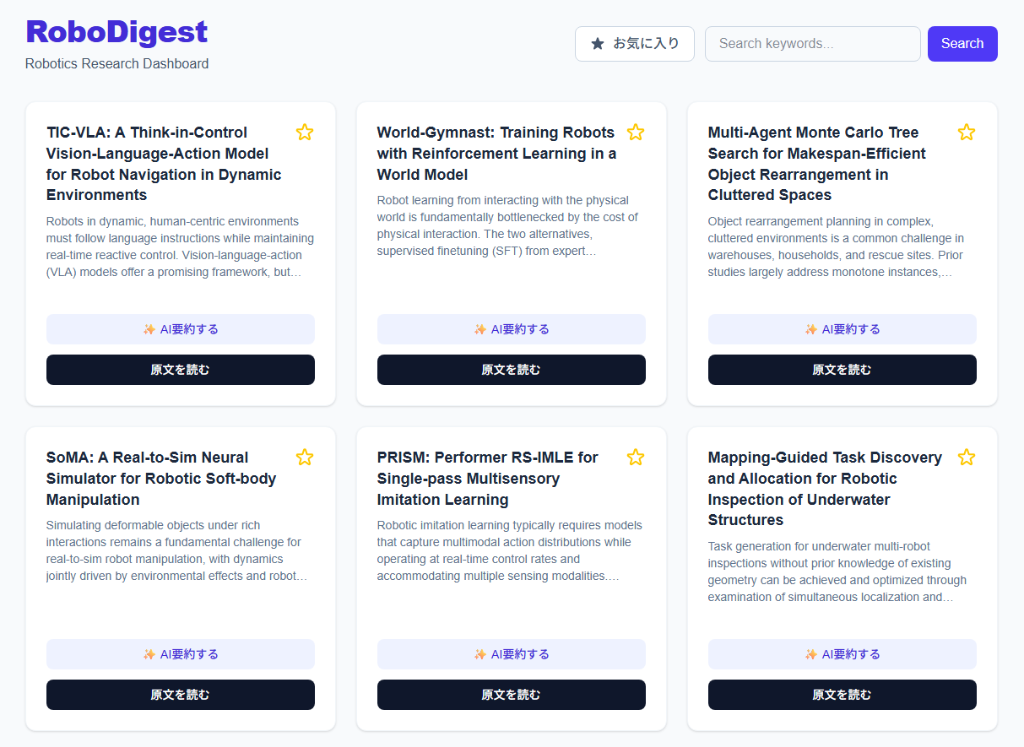
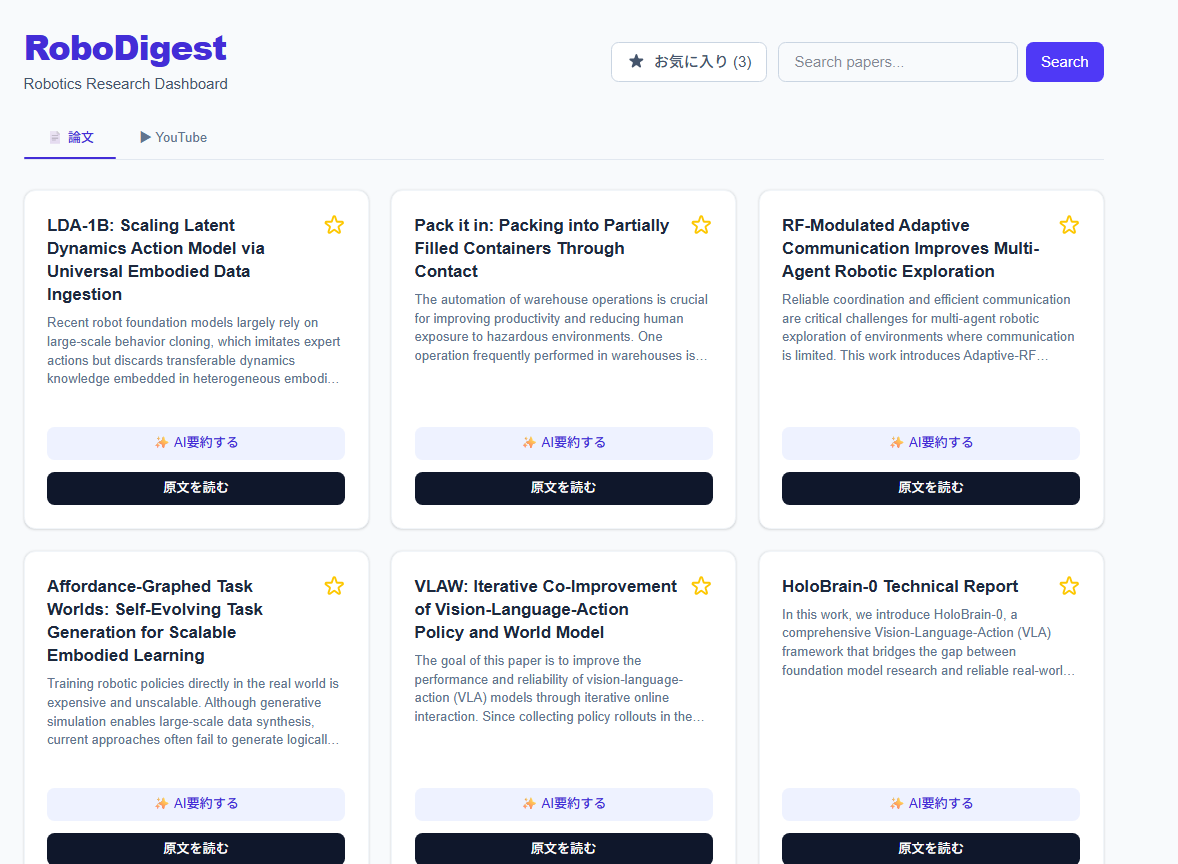
docs: update README and dashboard preview for YouTube integration

diff --git a/README.md b/README.md
@@ -1,15 +1,17 @@
 # RoboDigest
 
-**RoboDigest** is a daily dashboard for robotics researchers and enthusiasts. It fetches the latest papers from arXiv (`cs.RO`) and provides AI-powered summaries on demand, helping you stay up-to-date with trends in ROS 2, logistics, warehouse automation, and simulation.
+**RoboDigest** is a daily dashboard for robotics researchers and enthusiasts. It fetches the latest papers from arXiv (`cs.RO`) and trending YouTube videos, providing AI-powered summaries on demand to help you stay up-to-date with trends in ROS 2, logistics, warehouse automation, and simulation.
 
 ![Dashboard Preview](public/dashboard-preview.png)
 
 ## Features
 
 - **Daily Feed**: Automatically fetches the latest robotics papers from arXiv.
-- **Smart Search**: Filter papers by keywords to find exactly what you're interested in.
+- **YouTube Integration**: Browse trending robotics videos from YouTube via the Data API v3.
+- **Tab Switching**: Seamlessly switch between 📄 Papers and ▶ YouTube tabs.
+- **Smart Search**: Filter papers or videos by keywords to find exactly what you're interested in.
 - **AI Summarization**: Click "✨ AI要約する" to generate a concise 3-point summary in Japanese using Google Gemini 2.5.
-- **Bookmarks**: Save interesting papers to your favorites (stored locally in your browser).
+- **Unified Bookmarks**: Save papers and videos to your favorites, viewable in a single list.
 - **Responsive Design**: Modern, clean interface built with Tailwind CSS.
 
 ## Getting Started
@@ -18,6 +20,7 @@
 
 - Node.js (v18+)
 - Google Gemini API Key
+- YouTube Data API v3 Key
 
 ### Installation
 
@@ -39,6 +42,7 @@
 
     ```env
     GEMINI_API_KEY=your_gemini_api_key_here
+    YOUTUBE_API_KEY=your_youtube_api_key_here
     ```
 
 4.  Run the development server:
@@ -51,11 +55,11 @@
 
 ## Tech Stack
 
-- **Framework**: Next.js 14+ (App Router)
+- **Framework**: Next.js 16 (App Router)
 - **Language**: TypeScript
-- **Styling**: Tailwind CSS
+- **Styling**: Tailwind CSS v4
 - **AI**: Google Gemini API (`gemini-2.5-flash`)
-- **Data Source**: arXiv API
+- **Data Sources**: arXiv API, YouTube Data API v3
 
 ## License
 
